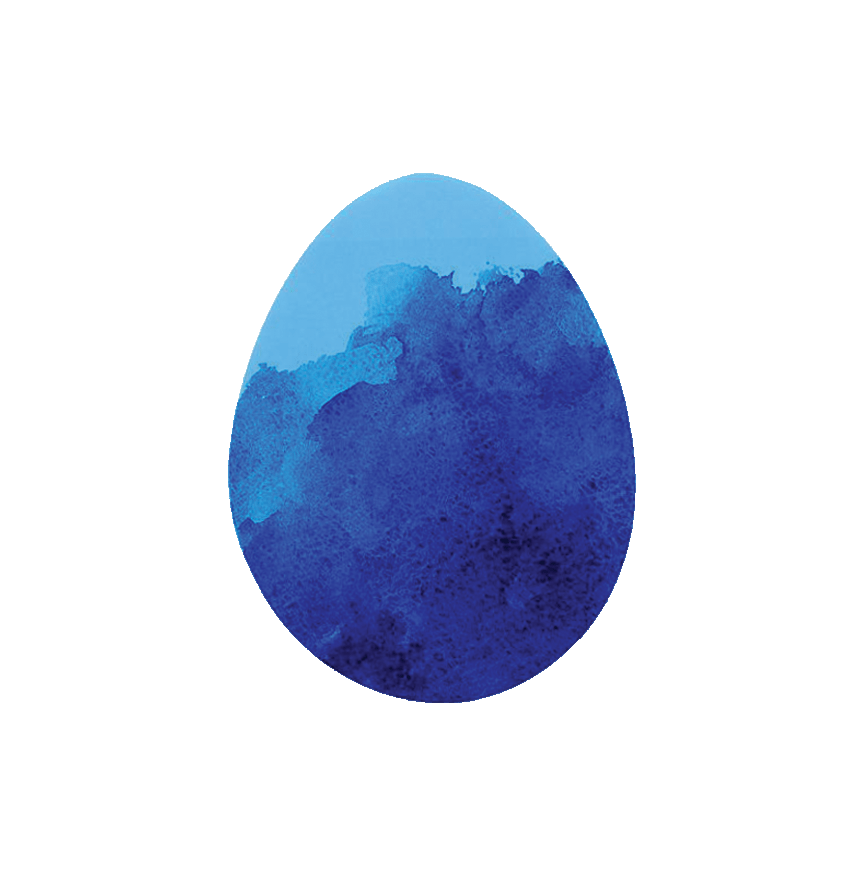
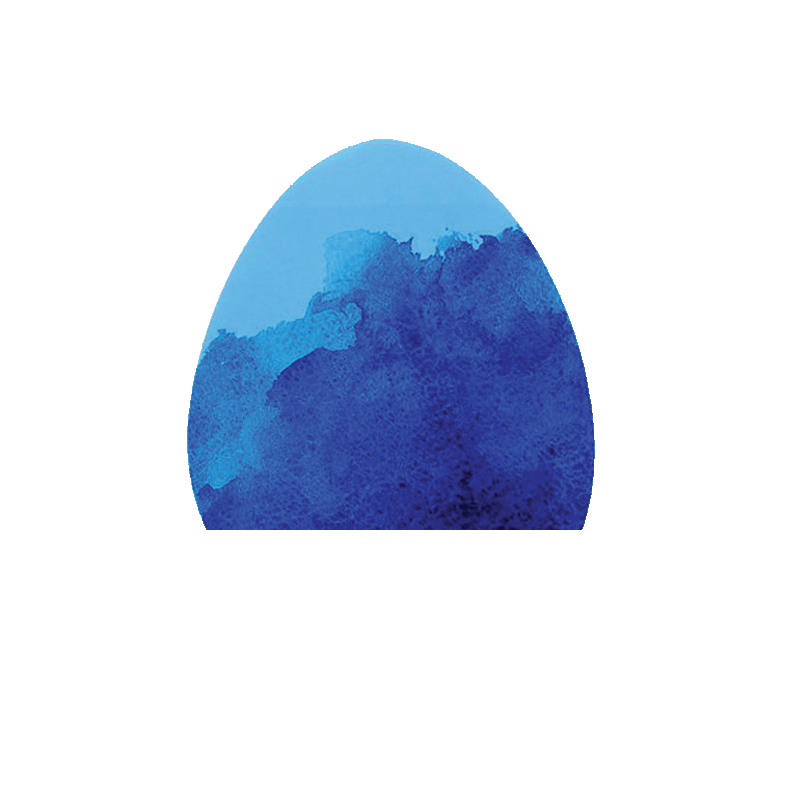
3h49 toujours debout, les oeufs dans le panier

Changed region(s): [[0.2188, 0.1562, 0.75, 0.8125]]

diff --git a/src/Game.css b/src/Game.css
@@ -19,6 +19,8 @@ body{
 .bebe{
     animation: walk 7s linear infinite;
     position: absolute;
+    width: 10vh;
+    height: 10vh;
 }
 
 @keyframes walk

diff --git a/src/Egg.css b/src/Egg.css
@@ -7,5 +7,5 @@
 }
 .eggImage img {
     width: 5vh;
-    margin: 10vh 0 0 10vh;
+    margin: 14vh 0 0 9vh;
 }
